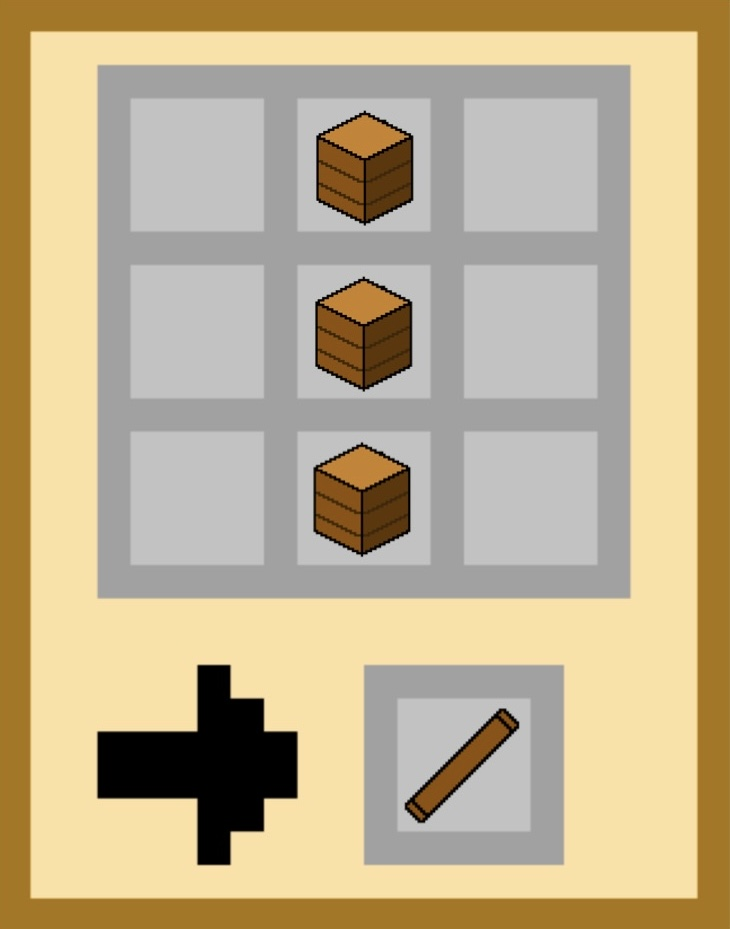
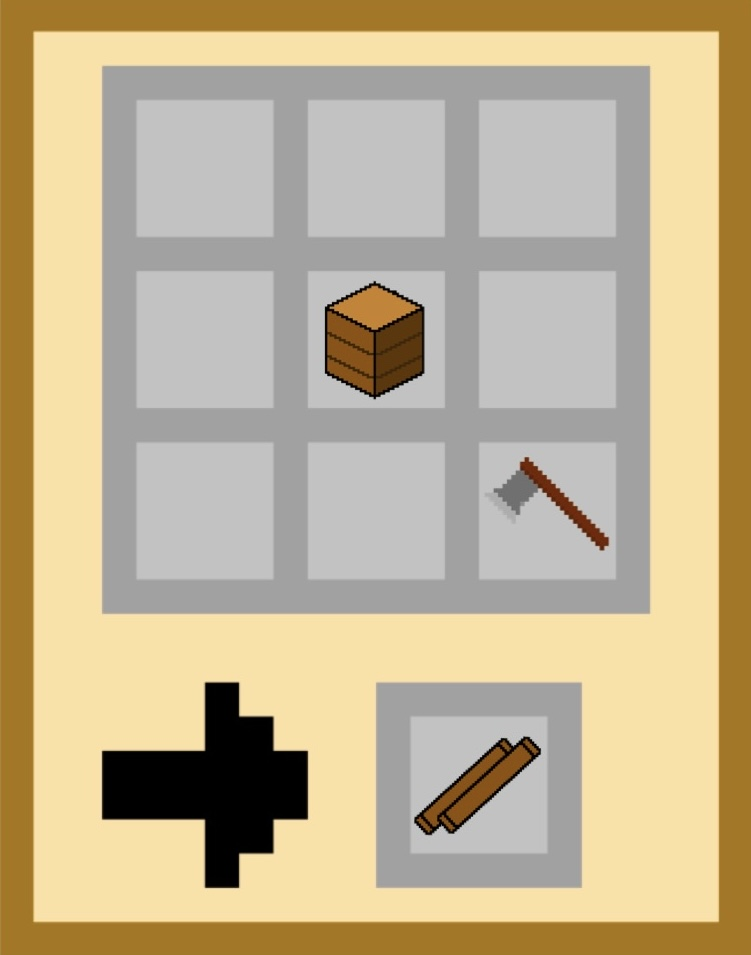
사전 수정

diff --git a/stage2/setting.py b/stage2/setting.py
@@ -159,7 +159,7 @@ for rel_x, rel_y in _slot_relative_coords:
     SPACESHIP_SLOT_RECTS.append(pygame.Rect(absolute_x, absolute_y, SLOT_SIZE_PX, SLOT_SIZE_PX))
 
 MAX_STACK_SIZE = 10
-MAX_DIC_PAGES = 11
+MAX_DIC_PAGES = 14
 GATHER_DURATION = 3000
 PULSATE_SPEED = 0.003
 PULSATE_MIN_SCALE = 0.9
@@ -186,10 +186,6 @@ RECIPES = [
                None, 'stick', None],
     'result':'hammer'
     },
-    {'recipe':['steel', 'steel', 'steel',
-               None, 'stick', None,
-               None, 'stick', None],
-    'result':'axe'},
     {'recipe':[None, None, None,
                None, 'steel', None,
                None, 'steel', None],

diff --git a/stage2/images.py b/stage2/images.py
@@ -118,7 +118,7 @@ class ImageManager:
         self.spaceship_display_image = self.safe_load_image('spaceship.png', (190, 100))
         self.spaceship_completed_image = self.safe_load_image('spaceship.png', (250, 200))
 
-        for i in range(1, 10):
+        for i in range(1, 14):
             part_name = f'piece_{i}.png'
             img = self.safe_load_image(part_name, convert_alpha=True)
             self.spaceship_parts.append(img)
